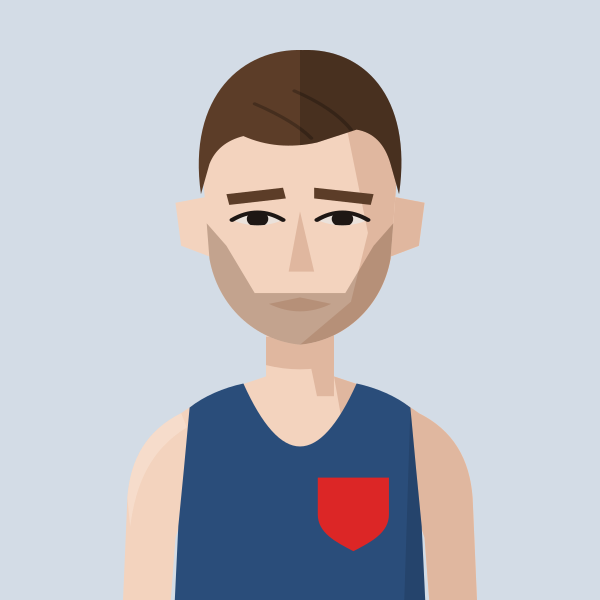
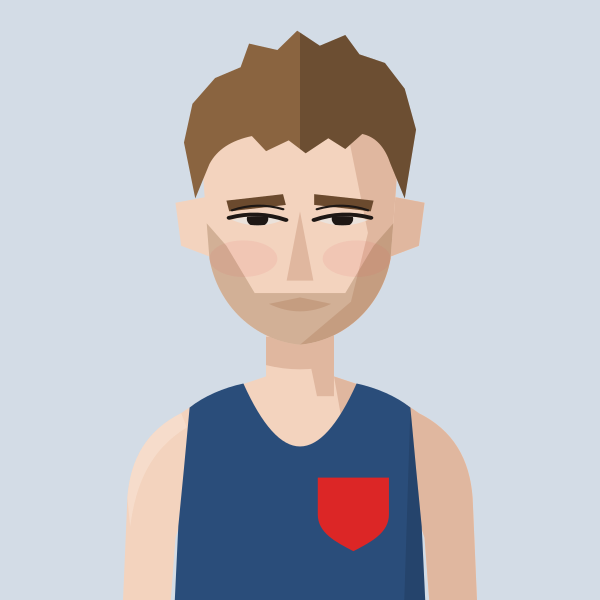
Redraw John Gilbert portrait
Claude-Session: https://claude.ai/code/session_01MgmDWhFqnSSnP4iBLKXUZC

Changed region(s): [[0.3, 0.03, 0.69, 0.39], [0.51, 0.3, 0.63, 0.39], [0.48, 0.45, 0.54, 0.48]]

diff --git a/files/index.html b/files/index.html
@@ -887,7 +887,7 @@ const portraitFile=(name,club)=>{const k=normalizeNameForCompare(name||'').repla
 const portraitClubOf=(name,clubs)=>{for(const c of clubs||[]){if(c&&portraitFile(name,c))return c;}return null;}; /* first of these clubs we have a portrait for */
 // Athlete header figure: superstar portrait if we have one, else a grey runner in the club vest, else the plain vest icon
 // Changes whenever any portrait changes (set by tools/build_og.py), so browsers fetch fresh images instead of old cached ones
-const PORTRAIT_V='0ffaf373';const PORTRAIT_WOMEN='abbey-brooke,abbie-bulbulian,adele-prince,aimee-hargreaves,aisling-ahern,alex-brown,alex-gandee,alex-marginean,alex-miller,alexa-parker,alexandra-barbour,alice-braham,alice-bridger-morales,alice-crane,alice-martin,alice-reed,alice-smith,alison-purnell,alison-thomson,amelia-pettitt,amy-clements,andrea-barber,anika-schwarze-chintapatla,anna-garnier,anna-garnier-hw,anna-sharp,annabel-hobday,annabelle-hadlow,anne-hegvold,annmarie-seymour,ava-mcandie,becky-briggs,bethan-goddard,bethanie-murray,bethany-brown,betsy-griffiths,billie-mcclosky,camilla-barden,caoimhe-nic-fhogartaigh,carolyne-baxter,catherine-bryson,catherine-eastham,catherine-kandie,cathy-ansell,charlotte-griffiths,chloe-beckett,chloe-tighe,chrissie-wellington,claire-grima,clara-pettit,clare-elms,clare-pauzers,dillan-quinn,dorchie-cockerell,eilidh-hide,elinor-skinner,eliza-grant,elizabeth-apsley,elizabeth-stavreski,ella-fennelly,ella-king-powrie,ella-may-hards,ella-newton,ellen-weir,ellie-brown,ellie-freeden,eloise-bull,emilie-arnoux,emily-barrett,emily-bradley,emily-lowery,emily-robbins,emma-bond,emma-gordon,emma-howsham,emma-lord,emma-rowland,estle-viljoen,evie-warren,felicity-cole,felicity-harrison,felicity-hayward,fi-maddocks,fiona-clark,fiona-de-mauny,florence-wiggins,gabby-collison,gabriel-reynolds,gemma-newport,genevieve-blanch,georgia-curry,georgie-bruinvels,georgie-fenn,georgie-furze,georgie-grgec,gina-galbraith,grace-leyland,grace-richardson,hannah-edwards,hannah-english,hayley-munn,hayley-munn-cc,heather-statham,heather-statham-cc,helen-alsop,helena-corbin,helena-keenan,holly-nixon,holly-pan,imogen-mackie,imogen-wolsey,iona-cousland,isabel-bradley,isabel-brinsden,isabel-hodder,isabelle-pickett,jennifer-nandi,jennifer-smith,jess-reed,jess-saunders,jess-winfield,jessica-davies,jessica-lowe,jodie-favell,jon-hobbs,josephine-rhodes,julia-bleasdale,julia-wedmore,juliet-hodder,juliette-clark,jurgita-levertaviciute,justine-lynch,karen-fenner,karen-xiang,karina-box,kate-axford,kate-williams,kathy-sharpe,katie-ellen-french,katie-good,katie-snowden,katy-hedgethorne,kitty-shepherd-cross,kristina-popadich,lara-bromilow,lara-mangan,laura-goodson,laura-miles,lauren-major,lea-adamson,lily-newton,lisa-bailey,lisa-thomas,lisa-thomas-hw,lizzie-goldie-scot,louise-cooper,lucy-jones,lucy-macalister,lucy-peters,lydia-blackmore,lydia-gallyer-barnett,maddie-mastrolonardo,maddy-whitman,maeve-kenny,margaret-coogan,martina-conner,mary-james,mary-setyabule,matilde-lomba,megan-gildea,mel-wilkins,mhairi-hall,mimi-corden-lloyd,molly-oconnor,molly-smith,monika-gajek,naomi-lenane,natalie-beadle,natalie-seymour,natasha-lodge,niamh-thompson,nicky-hayes,nicola-cartlidge,nicola-douglas,nikki-haines,nikki-sturzaker,nina-mills,olivia-papaioannou,olivia-stillman,orna-mcginley,pamela-mchutchon,patricia-walker,patrizia-gnoato,penny-oliver,rachel-brown,rebecca-barrow,rebekah-edgar,rosie-powell,ruby-carter,ruby-whyte-wilding,ruby-woolfe,sally-urquhart,sally-young,sally-young-slh,sam-whiting,samantha-munday,sarah-astin,sarah-dewhirst,sarah-grover,sarah-hanley,sarah-holt,sarah-murphy,sarah-palmer,sarah-palmer-ran,sarah-riceman,sarah-young,saron-haileselase,serena-carter,sophie-cowper,sophie-harris,sophie-hicks,sophie-tooley,stacey-ward,steph-hewitt,steph-mccall,steph-mccall-cc,steph-mccall-slh,steph-mitchell,suzanne-swaine,suze-spalding,suzie-harvey,suzy-whatmough,syreeta-stracey,teresa-murphy,tilly-heaton,tilly-heaton-bel,tish-jones,vic-cartwright,vicky-clarke,vicky-edwards,victoria-barthelmess,victoria-buck,vikki-filsell,zoe-doyle,zoe-macdonald,zuzana-nemeckova';const PORTRAIT_MEN='aaron-wilson,abdulla-elsadig,adam-leane,adrian-major,adrien-royer,alan-black,alan-mead,alex-brecker,alex-bruce-littlewood,alex-gutteridge,alex-harris,alex-howard,alex-janiaud,alex-lee,alex-lennon,alex-mills,alex-milne,alex-morales,alex-robinson,alex-yee,alexander-marks,amittai-ben-israel,andrew-cumine,andrew-green,andrew-penney,andrew-perfect,andrew-simms,andrew-warburton,andrius-jaksevicius,andy-coley-maud,andy-coley-maud-cc,andy-fyfe,andy-north,andy-paton,andy-weir,angus-butler,angus-lamb,anisse-ismaili,arlo-ludewick,arne-dumez,arthur-peel,ashley-goncalves,barnaby-day,barry-collins,barry-sawyer,ben-clarke,ben-coughlan,ben-harding,ben-hurley,ben-ireland,ben-millar,ben-paviour,ben-pearce,ben-racle,ben-revill,ben-reynolds,ben-scott,ben-toomer,benedict-whitby,benjamin-hilson,bernie-ford,bill-kerr,bill-weller,bill-weller-wal,bob-harrison,bob-holt,bob-lunnon,bob-rayman,bob-smith,bradley-courtney-pinn,brandon-dewar,brian-gorman,brian-wilder,caleb-hathaway,callum-stewart,cameron-dockerill,cameron-reilly,carl-delaney,charles-herrington,charlie-dabbs,charlie-dickinson,charlie-eastaugh,charlie-manning,charlie-pickett,charlie-rogers,charlie-sandison,charlie-walker,charlie-wyllie,che-compton,chris-busaileh,chris-busaileh-hhh,chris-greenwood,chris-keavey,chris-moss,chris-steer,chris-threadgold,chris-warren,christian-lee,christopher-parker,clive-gilby,clive-shippen,colin-high,colin-pearson,conall-mcnally,conall-whelan,craig-ruddy,dame-dibaba,dan-cliffe,dan-pettitt,daniel-shaw,daniel-wolff,darren-mead,dave-beard,dave-beaver,dave-clarke,dave-glassborow,dave-hill,dave-holt,dave-taylor,david-anderson,david-bowers,david-grima,david-north,david-ogden,david-symons,david-walsh,david-williams,deron-fagan,dick-piotrowski,dimos-evangelidis,dom-nolan,dominic-kiralyfi,don-anderson,don-faircloth,don-maclean,doug-maughan,duncan-rimmer,dylan-evans,dylan-mitchard,ed-brewer,ed-catmur,ed-gibson,ed-mallett,ed-prickett,eddie-herridge,eddie-jodrell,eddie-rolls,edward-chuck,eoin-brady,eoin-molloy,ethan-mccolgan,falilou-kebe,findlay-dyer,finn-johnson,fintan-pearce,frank-tickner,frank-ward,fred-paget,fred-slemeck,fred-stebbings,freddie-hessian,garret-lee,gary-ribbons,gary-ribbons-ee,gary-staines,gary-staines-bel,gavin-eccles,geoff-biscoe,geoff-jerwood,geoff-north,george-cotton,george-gathercole,george-jackson,george-loxton,george-mallett,george-ogden,gerry-adams,gerry-north,glen-keegan,gordon-pearce,graham-macky,grenville-tuck,harrison-hayman,harry-guttridge,hector-revill,henry-hart,henry-silverstein,hugo-hewitt,huw-lobb,ian-acreman,ian-crowe-wright,ian-ellwood,ian-harkness,indy-barnes,isaac-lutaya,isaac-parker,jack-brotchie,jack-dickson,jack-dormer,jack-hampshire,jack-harrison,jack-hobden,jack-kavanagh,jack-millar,jack-ramm,jack-woods,jacob-brockmann,jake-simmonds,james-bartram,james-blackwood,james-bowler,james-estall,james-ewing,james-fox,james-hancock,james-harvey,james-hoad,james-kelly,james-mcmullan,james-murray,james-nutt,james-preston,james-roberts,james-stockings,james-ward,james-wootton,jamie-crowe,jamie-parkinson,jared-martin,jean-paul-wright,jeff-cunningham,jeremy-dempsey,jermaine-mays,jerry-watson,jim-allchin,jim-rimmer,joachim-wolf,joe-english,joe-hartley,john-baker,john-bicourt,john-bromley,john-davies,john-dear,john-foss,john-foxall,john-gilbert,john-gladwin,john-hutchins,john-kendall,john-kimaiyo,john-lee,john-lethbridge,john-mather,john-moore,john-roberts,john-sanderson,john-snowden,john-stow,john-sullivan,john-thresher,jon-pepper,jon-pepper-slh,jon-phillips,jon-solly,jonathan-cocker,jonathan-collier,jonathan-cornish,jonathan-ratcliffe,jonathan-tipper,jonny-neville,jonny-scott,jordan-weaver,josh-mitchell,josh-snow,josh-trigwell,jules-gevers,junior-galley,justin-chaston,justin-reid,kassa-tadesse,keith-newton,ken-penney,ken-penney-cro,kevin-nash,kevin-quinn,kevin-sturman,kieran-barnes,kieran-white,knut-hegvold,knut-hegvold-bel,larry-ryan,lawrence-avery,lee-lintern,leo-coy,les-presland,les-presland-sur,lewis-lloyd,liam-burthem,lionel-mann,lloyd-kempson,luke-caldwell,macgregor-cox,mack-downie,malachi-byansi,marcello-bizio,marcelo-fortes,marco-mazzotta,mark-anderson,mark-miles,mark-sinclair,mark-tennyson,mark-waller,martin-dent,martin-duff,martin-lake,martin-lewington,martin-shore,mathew-speed,matt-chaston,matt-jones,matt-wood,matt-yates,matthew-edgar,matthew-houchell,matthew-thomas,matthew-varley,max-bloor,max-heyden,max-milarvie,max-nicholls,michael-baker,michael-mccarthy,mick-gowan,mick-woods,mike-beevor,mike-boyle,mike-cummings,mike-farmery,mike-fuller,mike-hayes,mike-kortenray,mike-nouch,mohammed-ismail,monty-hudson,morgan-roberts,nathan-visick,neil-chisholm,neil-phillips,neil-speaight,neil-wilson,nic-lukies,nick-acfield,nick-altmann,nick-bester,nick-bester-hhh,nick-buckle,nick-bundle,nick-goolab,nick-lightfoot,nick-morris,nick-torry,noah-fernandez,norman-stairs,oli-carrington,oliver-carrington,oliver-fox,oliver-reynolds,oliver-young,ollie-foote,ollie-garrod,olly-buck,owen-hind,paddy-roddy,pancho-panchev,paskar-owor,pat-newell,patrick-mcdougall,paul-calver,paul-cheetham,paul-evans,paul-freary,paul-magner,paul-pollock,paul-sanderson,paul-sanderson-wok,pete-carton,pete-gardner,peter-clarke,peter-giles,peter-giles-thh,peter-lighting,phil-carstairs,phil-sanders,phil-sesemann,phil-swinburn,phil-wicks,phil-woodford-smith,raj-paranandi,ralph-street,ranjit-bhatia,ray-foley,reece-edwards,rhys-boorman,rian-mccawley,richard-ashe,richard-giles,richard-henderson,richard-langley,richard-mcdowell,richard-ollington,richard-partridge,richard-sun,richard-ward,rob-armstrong,rob-kelly,rob-tuer,robert-elphick,robert-laing,robert-norville,robert-peacock,robert-sesemann,robin-boon,robin-hudson,roger-alsop,roger-alsop-bel,roger-hackney,ron-clark,ron-linstead,ronan-tanguy,rory-mcmahon,rory-orsborn,ross-braden,ross-christie,rowan-board,rowan-crichton,russell-dessaix-chin,ryan-hickey,ryan-mccallister,sam-bramwell,sam-charlton,sam-gebreselassie,sam-haughian,sam-peters,sam-sommerville,sam-tyas,samuel-dames,samuel-wilcock,sean-cordon,sebastian-anthony,simon-baines,simon-coombes,simon-coppard,simon-fairbrother,simon-holmes,simon-rayner,simon-rayner-hw,simon-wade,simon-wade-hhh,simon-waterhouse,simon-williams,simon-wurr,sonny-nicoll,spencer-barden,stephen-mcleod,stephen-sharp,steve-badgery,steve-badgery-mit,steve-gardner,steve-jones,steve-smythe,steve-smythe-hhh,stuart-beaney,stuart-major,stuart-major-thh,stuart-mccallum,stuart-paton,terry-booth,thomas-dugre,thomas-gandee,thomas-gardner,thomas-renshaw,tim-alexander,tim-eglen,tim-lawrence,tim-watson,toby-cooke,toby-fletcher,tom-austin,tom-cheetham,tom-conlon,tom-davies,tom-gifford,tom-higgs,tom-jervis,tom-lole,tom-south,tom-thornley,tommy-taylor,tony-binda,tony-fairclough,tony-harran,trevor-hart,trevor-williams,valdis-pauzers,valentin-rigori,vic-maughan,wayne-oxborough,will-cockerell,will-lewis,will-marshall,will-scott,will-stockley,william-gardner,yacin-yusuf,zach-nolan';
+const PORTRAIT_V='073d11e0';const PORTRAIT_WOMEN='abbey-brooke,abbie-bulbulian,adele-prince,aimee-hargreaves,aisling-ahern,alex-brown,alex-gandee,alex-marginean,alex-miller,alexa-parker,alexandra-barbour,alice-braham,alice-bridger-morales,alice-crane,alice-martin,alice-reed,alice-smith,alison-purnell,alison-thomson,amelia-pettitt,amy-clements,andrea-barber,anika-schwarze-chintapatla,anna-garnier,anna-garnier-hw,anna-sharp,annabel-hobday,annabelle-hadlow,anne-hegvold,annmarie-seymour,ava-mcandie,becky-briggs,bethan-goddard,bethanie-murray,bethany-brown,betsy-griffiths,billie-mcclosky,camilla-barden,caoimhe-nic-fhogartaigh,carolyne-baxter,catherine-bryson,catherine-eastham,catherine-kandie,cathy-ansell,charlotte-griffiths,chloe-beckett,chloe-tighe,chrissie-wellington,claire-grima,clara-pettit,clare-elms,clare-pauzers,dillan-quinn,dorchie-cockerell,eilidh-hide,elinor-skinner,eliza-grant,elizabeth-apsley,elizabeth-stavreski,ella-fennelly,ella-king-powrie,ella-may-hards,ella-newton,ellen-weir,ellie-brown,ellie-freeden,eloise-bull,emilie-arnoux,emily-barrett,emily-bradley,emily-lowery,emily-robbins,emma-bond,emma-gordon,emma-howsham,emma-lord,emma-rowland,estle-viljoen,evie-warren,felicity-cole,felicity-harrison,felicity-hayward,fi-maddocks,fiona-clark,fiona-de-mauny,florence-wiggins,gabby-collison,gabriel-reynolds,gemma-newport,genevieve-blanch,georgia-curry,georgie-bruinvels,georgie-fenn,georgie-furze,georgie-grgec,gina-galbraith,grace-leyland,grace-richardson,hannah-edwards,hannah-english,hayley-munn,hayley-munn-cc,heather-statham,heather-statham-cc,helen-alsop,helena-corbin,helena-keenan,holly-nixon,holly-pan,imogen-mackie,imogen-wolsey,iona-cousland,isabel-bradley,isabel-brinsden,isabel-hodder,isabelle-pickett,jennifer-nandi,jennifer-smith,jess-reed,jess-saunders,jess-winfield,jessica-davies,jessica-lowe,jodie-favell,jon-hobbs,josephine-rhodes,julia-bleasdale,julia-wedmore,juliet-hodder,juliette-clark,jurgita-levertaviciute,justine-lynch,karen-fenner,karen-xiang,karina-box,kate-axford,kate-williams,kathy-sharpe,katie-ellen-french,katie-good,katie-snowden,katy-hedgethorne,kitty-shepherd-cross,kristina-popadich,lara-bromilow,lara-mangan,laura-goodson,laura-miles,lauren-major,lea-adamson,lily-newton,lisa-bailey,lisa-thomas,lisa-thomas-hw,lizzie-goldie-scot,louise-cooper,lucy-jones,lucy-macalister,lucy-peters,lydia-blackmore,lydia-gallyer-barnett,maddie-mastrolonardo,maddy-whitman,maeve-kenny,margaret-coogan,martina-conner,mary-james,mary-setyabule,matilde-lomba,megan-gildea,mel-wilkins,mhairi-hall,mimi-corden-lloyd,molly-oconnor,molly-smith,monika-gajek,naomi-lenane,natalie-beadle,natalie-seymour,natasha-lodge,niamh-thompson,nicky-hayes,nicola-cartlidge,nicola-douglas,nikki-haines,nikki-sturzaker,nina-mills,olivia-papaioannou,olivia-stillman,orna-mcginley,pamela-mchutchon,patricia-walker,patrizia-gnoato,penny-oliver,rachel-brown,rebecca-barrow,rebekah-edgar,rosie-powell,ruby-carter,ruby-whyte-wilding,ruby-woolfe,sally-urquhart,sally-young,sally-young-slh,sam-whiting,samantha-munday,sarah-astin,sarah-dewhirst,sarah-grover,sarah-hanley,sarah-holt,sarah-murphy,sarah-palmer,sarah-palmer-ran,sarah-riceman,sarah-young,saron-haileselase,serena-carter,sophie-cowper,sophie-harris,sophie-hicks,sophie-tooley,stacey-ward,steph-hewitt,steph-mccall,steph-mccall-cc,steph-mccall-slh,steph-mitchell,suzanne-swaine,suze-spalding,suzie-harvey,suzy-whatmough,syreeta-stracey,teresa-murphy,tilly-heaton,tilly-heaton-bel,tish-jones,vic-cartwright,vicky-clarke,vicky-edwards,victoria-barthelmess,victoria-buck,vikki-filsell,zoe-doyle,zoe-macdonald,zuzana-nemeckova';const PORTRAIT_MEN='aaron-wilson,abdulla-elsadig,adam-leane,adrian-major,adrien-royer,alan-black,alan-mead,alex-brecker,alex-bruce-littlewood,alex-gutteridge,alex-harris,alex-howard,alex-janiaud,alex-lee,alex-lennon,alex-mills,alex-milne,alex-morales,alex-robinson,alex-yee,alexander-marks,amittai-ben-israel,andrew-cumine,andrew-green,andrew-penney,andrew-perfect,andrew-simms,andrew-warburton,andrius-jaksevicius,andy-coley-maud,andy-coley-maud-cc,andy-fyfe,andy-north,andy-paton,andy-weir,angus-butler,angus-lamb,anisse-ismaili,arlo-ludewick,arne-dumez,arthur-peel,ashley-goncalves,barnaby-day,barry-collins,barry-sawyer,ben-clarke,ben-coughlan,ben-harding,ben-hurley,ben-ireland,ben-millar,ben-paviour,ben-pearce,ben-racle,ben-revill,ben-reynolds,ben-scott,ben-toomer,benedict-whitby,benjamin-hilson,bernie-ford,bill-kerr,bill-weller,bill-weller-wal,bob-harrison,bob-holt,bob-lunnon,bob-rayman,bob-smith,bradley-courtney-pinn,brandon-dewar,brian-gorman,brian-wilder,caleb-hathaway,callum-stewart,cameron-dockerill,cameron-reilly,carl-delaney,charles-herrington,charlie-dabbs,charlie-dickinson,charlie-eastaugh,charlie-manning,charlie-pickett,charlie-rogers,charlie-sandison,charlie-walker,charlie-wyllie,che-compton,chris-busaileh,chris-busaileh-hhh,chris-greenwood,chris-keavey,chris-moss,chris-steer,chris-threadgold,chris-warren,christian-lee,christopher-parker,clive-gilby,clive-shippen,colin-high,colin-pearson,conall-mcnally,conall-whelan,craig-ruddy,dame-dibaba,dan-cliffe,dan-pettitt,daniel-shaw,daniel-wolff,darren-mead,dave-beard,dave-beaver,dave-clarke,dave-glassborow,dave-hill,dave-holt,dave-taylor,david-anderson,david-bowers,david-grima,david-north,david-ogden,david-symons,david-walsh,david-williams,deron-fagan,dick-piotrowski,dimos-evangelidis,dom-nolan,dominic-kiralyfi,don-anderson,don-faircloth,don-maclean,doug-maughan,duncan-rimmer,dylan-evans,dylan-mitchard,ed-brewer,ed-catmur,ed-gibson,ed-mallett,ed-prickett,eddie-herridge,eddie-jodrell,eddie-rolls,edward-chuck,eoin-brady,eoin-molloy,ethan-mccolgan,falilou-kebe,findlay-dyer,finn-johnson,fintan-pearce,frank-tickner,frank-ward,fred-paget,fred-slemeck,fred-stebbings,freddie-hessian,garret-lee,gary-ribbons,gary-ribbons-ee,gary-staines,gary-staines-bel,gavin-eccles,geoff-biscoe,geoff-jerwood,geoff-north,george-cotton,george-gathercole,george-jackson,george-loxton,george-mallett,george-ogden,gerry-adams,gerry-north,glen-keegan,gordon-pearce,graham-macky,grenville-tuck,harrison-hayman,harry-guttridge,hector-revill,henry-hart,henry-silverstein,hugo-hewitt,huw-lobb,ian-acreman,ian-crowe-wright,ian-ellwood,ian-harkness,indy-barnes,isaac-lutaya,isaac-parker,jack-brotchie,jack-dickson,jack-dormer,jack-hampshire,jack-harrison,jack-hobden,jack-kavanagh,jack-millar,jack-ramm,jack-woods,jacob-brockmann,jake-simmonds,james-bartram,james-blackwood,james-bowler,james-estall,james-ewing,james-fox,james-hancock,james-harvey,james-hoad,james-kelly,james-mcmullan,james-murray,james-nutt,james-preston,james-roberts,james-stockings,james-ward,james-wootton,jamie-crowe,jamie-parkinson,jared-martin,jean-paul-wright,jeff-cunningham,jeremy-dempsey,jermaine-mays,jerry-watson,jim-allchin,jim-rimmer,joachim-wolf,joe-english,joe-hartley,john-baker,john-bicourt,john-bromley,john-davies,john-dear,john-foss,john-foxall,john-gilbert,john-gladwin,john-hutchins,john-kendall,john-kimaiyo,john-lee,john-lethbridge,john-mather,john-moore,john-roberts,john-sanderson,john-snowden,john-stow,john-sullivan,john-thresher,jon-pepper,jon-pepper-slh,jon-phillips,jon-solly,jonathan-cocker,jonathan-collier,jonathan-cornish,jonathan-ratcliffe,jonathan-tipper,jonny-neville,jonny-scott,jordan-weaver,josh-mitchell,josh-snow,josh-trigwell,jules-gevers,junior-galley,justin-chaston,justin-reid,kassa-tadesse,keith-newton,ken-penney,ken-penney-cro,kevin-nash,kevin-quinn,kevin-sturman,kieran-barnes,kieran-white,knut-hegvold,knut-hegvold-bel,larry-ryan,lawrence-avery,lee-lintern,leo-coy,les-presland,les-presland-sur,lewis-lloyd,liam-burthem,lionel-mann,lloyd-kempson,luke-caldwell,macgregor-cox,mack-downie,malachi-byansi,marcello-bizio,marcelo-fortes,marco-mazzotta,mark-anderson,mark-miles,mark-sinclair,mark-tennyson,mark-waller,martin-dent,martin-duff,martin-lake,martin-lewington,martin-shore,mathew-speed,matt-chaston,matt-jones,matt-wood,matt-yates,matthew-edgar,matthew-houchell,matthew-thomas,matthew-varley,max-bloor,max-heyden,max-milarvie,max-nicholls,michael-baker,michael-mccarthy,mick-gowan,mick-woods,mike-beevor,mike-boyle,mike-cummings,mike-farmery,mike-fuller,mike-hayes,mike-kortenray,mike-nouch,mohammed-ismail,monty-hudson,morgan-roberts,nathan-visick,neil-chisholm,neil-phillips,neil-speaight,neil-wilson,nic-lukies,nick-acfield,nick-altmann,nick-bester,nick-bester-hhh,nick-buckle,nick-bundle,nick-goolab,nick-lightfoot,nick-morris,nick-torry,noah-fernandez,norman-stairs,oli-carrington,oliver-carrington,oliver-fox,oliver-reynolds,oliver-young,ollie-foote,ollie-garrod,olly-buck,owen-hind,paddy-roddy,pancho-panchev,paskar-owor,pat-newell,patrick-mcdougall,paul-calver,paul-cheetham,paul-evans,paul-freary,paul-magner,paul-pollock,paul-sanderson,paul-sanderson-wok,pete-carton,pete-gardner,peter-clarke,peter-giles,peter-giles-thh,peter-lighting,phil-carstairs,phil-sanders,phil-sesemann,phil-swinburn,phil-wicks,phil-woodford-smith,raj-paranandi,ralph-street,ranjit-bhatia,ray-foley,reece-edwards,rhys-boorman,rian-mccawley,richard-ashe,richard-giles,richard-henderson,richard-langley,richard-mcdowell,richard-ollington,richard-partridge,richard-sun,richard-ward,rob-armstrong,rob-kelly,rob-tuer,robert-elphick,robert-laing,robert-norville,robert-peacock,robert-sesemann,robin-boon,robin-hudson,roger-alsop,roger-alsop-bel,roger-hackney,ron-clark,ron-linstead,ronan-tanguy,rory-mcmahon,rory-orsborn,ross-braden,ross-christie,rowan-board,rowan-crichton,russell-dessaix-chin,ryan-hickey,ryan-mccallister,sam-bramwell,sam-charlton,sam-gebreselassie,sam-haughian,sam-peters,sam-sommerville,sam-tyas,samuel-dames,samuel-wilcock,sean-cordon,sebastian-anthony,simon-baines,simon-coombes,simon-coppard,simon-fairbrother,simon-holmes,simon-rayner,simon-rayner-hw,simon-wade,simon-wade-hhh,simon-waterhouse,simon-williams,simon-wurr,sonny-nicoll,spencer-barden,stephen-mcleod,stephen-sharp,steve-badgery,steve-badgery-mit,steve-gardner,steve-jones,steve-smythe,steve-smythe-hhh,stuart-beaney,stuart-major,stuart-major-thh,stuart-mccallum,stuart-paton,terry-booth,thomas-dugre,thomas-gandee,thomas-gardner,thomas-renshaw,tim-alexander,tim-eglen,tim-lawrence,tim-watson,toby-cooke,toby-fletcher,tom-austin,tom-cheetham,tom-conlon,tom-davies,tom-gifford,tom-higgs,tom-jervis,tom-lole,tom-south,tom-thornley,tommy-taylor,tony-binda,tony-fairclough,tony-harran,trevor-hart,trevor-williams,valdis-pauzers,valentin-rigori,vic-maughan,wayne-oxborough,will-cockerell,will-lewis,will-marshall,will-scott,will-stockley,william-gardner,yacin-yusuf,zach-nolan';
 // Runners whose dog pops up on their own profile page (a -dog.svg version of their portrait)
 const PROFILE_DOGS=new Set(['john-sanderson','penny-oliver','james-hancock','angus-butler']);
 const AthletePortrait=({name,club,w,fill,onClick,blink})=>{const[failed,setFailed]=useState(false);const file=portraitFile(name,club);const src0=file?`/portraits/athletes/${file}.svg?v=${PORTRAIT_V}`:PORTRAIT_CLUBS.has(club)?`/portraits/clubs/${club.replace(/\//g,'').replace(/&/g,'and')}.svg?v=${PORTRAIT_V}`:null;const blinkSrc=useBlinkSrc(file?(PROFILE_DOGS.has(file)?`/portraits/athletes/${file}-dog.svg?v=${PORTRAIT_V}`:src0):null,!!blink);const src=blinkSrc||src0;if(!src||failed)return<div onClick={onClick} className={onClick?'cursor-pointer':''}><ClubShield club={club} size={w}/></div>;const h=Math.round(w*148/126),ih=Math.round(w*1.4);if(fill)return<div onClick={onClick} className="cursor-pointer" style={{alignSelf:'stretch',minHeight:h,aspectRatio:'126 / 148',flexShrink:0,position:'relative',borderRadius:4,overflow:'hidden'}}><img src={src} alt={file?`Portrait of ${name.replace(/\s*\([^)]*\)$/,'')}`:`Runner in ${CLUBS[club]?.name||club} vest`} style={{position:'absolute',top:0,left:0,display:'block',width:'100%',height:'auto'}} onError={()=>setFailed(true)}/></div>;return<div style={{width:w,height:h,borderRadius:4,overflow:'hidden',flexShrink:0}}><img src={src} alt={file?`Portrait of ${name.replace(/\s*\([^)]*\)$/,'')}`:`Runner in ${CLUBS[club]?.name||club} vest`} width={w} height={ih} style={{display:'block',width:w,height:ih}} onError={()=>setFailed(true)}/></div>;};

diff --git a/tools/gen_portraits.py b/tools/gen_portraits.py
@@ -2158,4 +2158,6 @@ save("hayley-munn", _munn("HHH"))
 save("hayley-munn-cc", _munn("C/C"))
 # Frank Tickner (KEN), Oct 2026 redraw from a 2013 start-line photo: sandy hair receding at the temples with a little lift, dead-straight brows right down on hooded eyes, square jaw, light stubble
 save("frank-tickner", nose(brows(straightbrows(eyes(figure("KEN", skin=1, hair="quiffrecede", hair_colour="#B98A55", brow_colour="#9C7046", facial="stubble", facial_colour="#B08A5E", jaw="square"), "hooded", 0)), 0, 0, 6), 1.05, 1.1))
+# John Gilbert (KEN), Oct 2026 redraw from a 2013 start-line photo: messy light-brown fringe, stubble, ruddy cheeks, hooded eyes close under the brows
+save("john-gilbert", nose(brows(eyes(figure("KEN", skin=1, hair="messyfringe", hair_colour="#8A6440", brow_colour="#6B4A2E", facial="stubble", facial_colour="#8A6440", rosy=True), "hooded", 0), 0, 0, 3), 1.05, 1.15))
 export_site()
